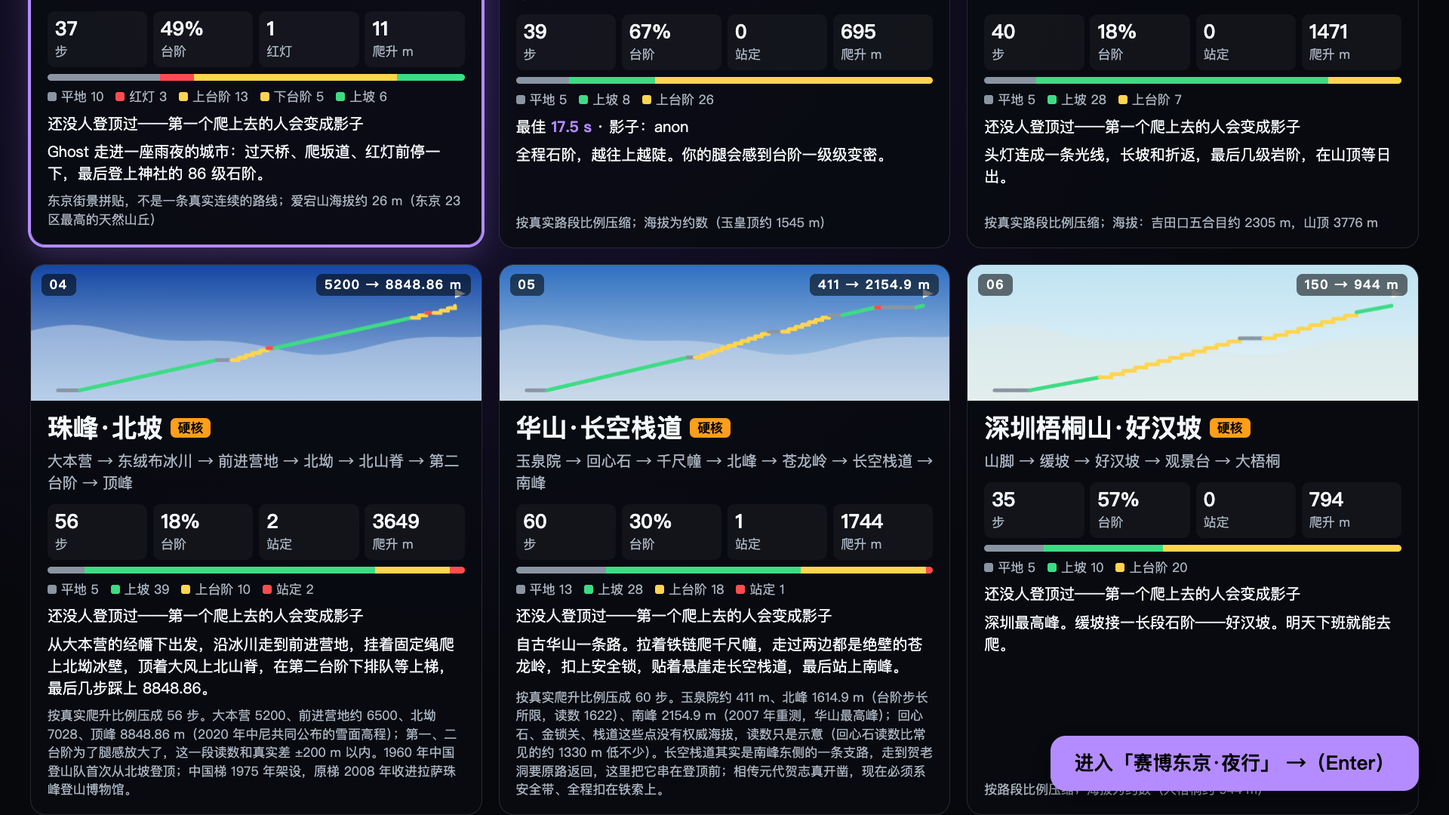
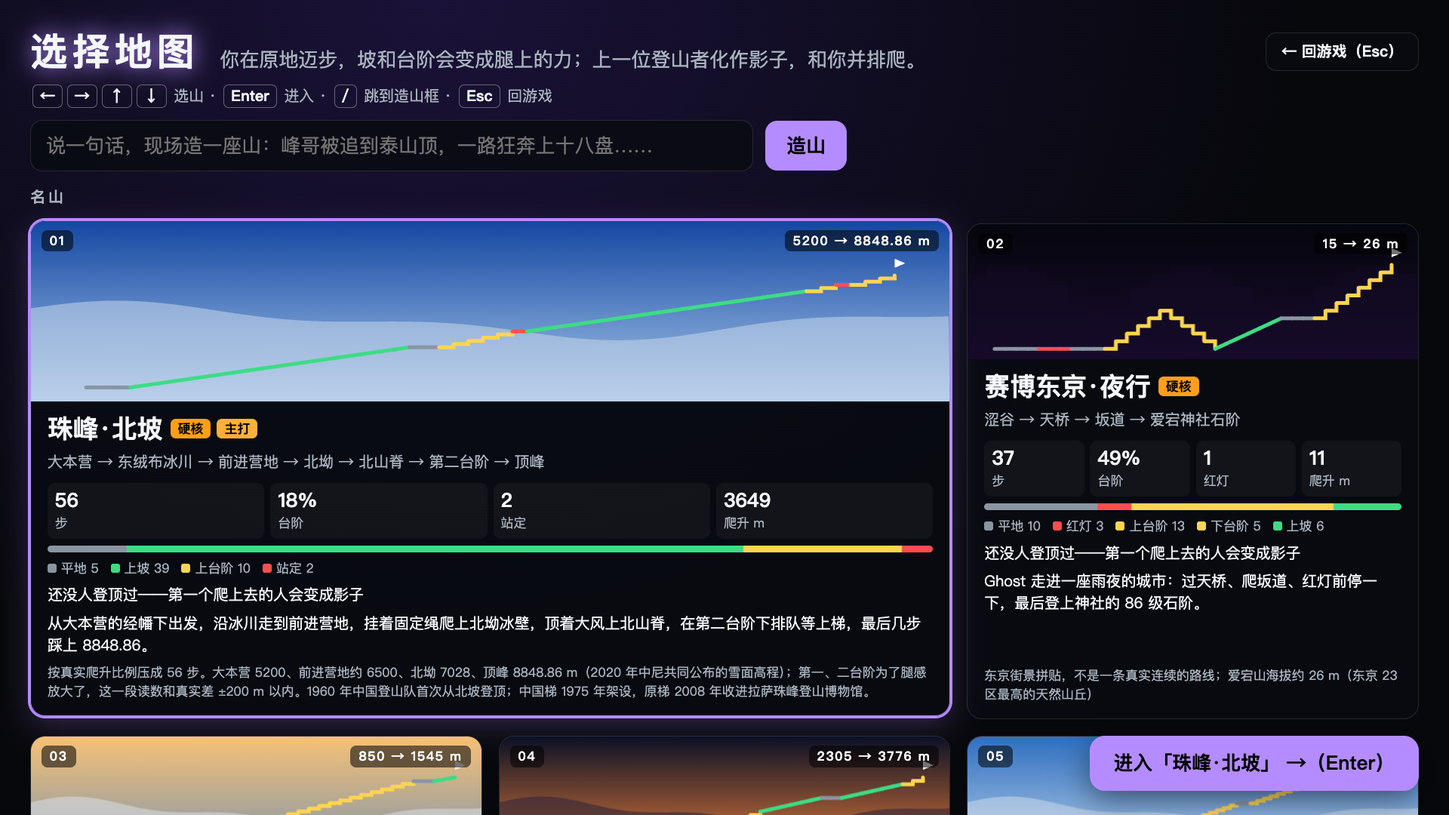
U 线：珠峰主打——选山页排第一、占两格、带「主打」；开始界面标主打；结算卡标题带山顶海拔（8848.86 m）

diff --git a/shellos/ui/static/worlds.html b/shellos/ui/static/worlds.html
@@ -38,6 +38,9 @@ h2{padding:1rem 2rem 0;margin:0;font-size:1rem;color:var(--dim);letter-spacing:.
 .stats span{font-size:.85rem;color:var(--dim)}
 .diff{font-size:.85rem;font-weight:900;padding:.05rem .5rem;border-radius:.35rem;margin-left:.5rem;vertical-align:.3rem;color:#000;background:var(--acc)}
 .diff.hard{background:#ff9f1a}
+.star{font-size:.85rem;font-weight:900;padding:.05rem .5rem;border-radius:.35rem;margin-left:.4rem;vertical-align:.3rem;color:#000;background:var(--who-fengge,#ffb03a)}
+.card.feat{grid-column:span 2}
+.card.feat .sky{height:12rem}
 .mix{display:flex;height:.45rem;border-radius:.25rem;overflow:hidden}
 .legend{display:flex;gap:.8rem;flex-wrap:wrap;font-size:.85rem;color:var(--dim)}
 .legend i{display:inline-block;width:.6rem;height:.6rem;border-radius:.15rem;margin-right:.3rem}
@@ -63,6 +66,7 @@ const fmt=s=>s==null?'—':s<60?`${s.toFixed(1)} s`:`${Math.floor(s/60)}:${(s%60
 // 最佳成绩：游戏页每次登顶记进 localStorage（fg_records，同一台大屏）；当前世界再用 /state 的 best / ghost_who 补上（ShellOS 内存里的，只读）
 let REC={};try{REC=JSON.parse(localStorage.getItem('fg_records')||'{}')||{}}catch(e){}
 let cards=[],chosen=null;
+const FEATURED='everest_north';   // 9/23 定：展位主打地图（docs/珠峰-架构.md），排第一张、大一号、带「主打」
 function drawSky(cv,w){
   const r=cv.getBoundingClientRect(),W=cv.width=r.width*devicePixelRatio,H=cv.height=r.height*devicePixelRatio,ctx=cv.getContext('2d');
   const t=w.theme,g=ctx.createLinearGradient(0,0,0,H);g.addColorStop(0,t.sky[0]);g.addColorStop(1,t.sky[1]);ctx.fillStyle=g;ctx.fillRect(0,0,W,H);
@@ -87,12 +91,12 @@ function stat(w){
   return {n,stairs:Math.round(sh*100),waits:waits.length,waitName:red?'红灯':'站定',diff:hard?'硬核':easy?'入门':'适中',hard};
 }
 function card(w,i){
-  const d=document.createElement('div');d.className='card'+(w.generated?' gen':'');d.tabIndex=-1;
+  const d=document.createElement('div');d.className='card'+(w.generated?' gen':'')+(w.id===FEATURED?' feat':'');d.tabIndex=-1;
   const S=stat(w),rec=REC[w.id]||{};
   const mix=Object.entries(w.mix).map(([k,v])=>`<div style="flex:${v};background:${SEG[k]||SEG.flat}"></div>`).join('');
   const leg=Object.entries(w.mix).map(([k,v])=>`<span><i style="background:${SEG[k]||SEG.flat}"></i>${k==='wait'?S.waitName:KN[k]||k} ${v}</span>`).join('');
   d.innerHTML=`<div class="sky"><canvas></canvas><div class="tag l">${w.training?'训练场':w.generated?(w.generated==='claude'?'AI 造':'现场造'):'0'+(i+1)}</div><div class="tag r">${esc(w.alt[0])} → ${esc(w.alt[1])} ${esc(w.unit)}</div></div>
-   <div class="body"><div class="name">${esc(w.name)}<span class="diff${S.hard?' hard':''}">${S.diff}</span></div><div class="sub">${esc(w.subtitle)}</div>
+   <div class="body"><div class="name">${esc(w.name)}<span class="diff${S.hard?' hard':''}">${S.diff}</span>${w.id===FEATURED?'<span class="star">主打</span>':''}</div><div class="sub">${esc(w.subtitle)}</div>
    <div class="stats"><div><b>${S.n}</b><span>步</span></div><div><b>${S.stairs}%</b><span>台阶</span></div><div><b>${S.waits}</b><span>${S.waitName}</span></div><div><b>${esc(Math.round(w.alt[1]-w.alt[0]))}</b><span>爬升 ${esc(w.unit)}</span></div></div>
    <div class="mix">${mix}</div><div class="legend">${leg}</div>
    <div class="rec" data-rec>${rec.best!=null?`最佳 <b>${fmt(rec.best)}</b>${rec.who?` · 影子：${esc(rec.who)}`:''}`:'还没人登顶过——第一个爬上去的人会变成影子'}</div>
@@ -111,6 +115,7 @@ async function load(pick_){
   if(cur&&cur.best!=null)REC[cur.preset]={...(REC[cur.preset]||{}),best:Math.min(cur.best,(REC[cur.preset]||{}).best??1e9),who:(REC[cur.preset]||{}).who||cur.ghost_who};
   let n=0;cards=[];
   document.getElementById('main').innerHTML='';document.getElementById('train').innerHTML='';
+  ws.sort((a,b)=>(b.id===FEATURED)-(a.id===FEATURED));
   ws.forEach(w=>{const c=card(w,w.training?0:n++);cards.push({el:c,w});(w.training?document.getElementById('train'):document.getElementById('main')).appendChild(c)});
   const want=pick_||(cur&&cur.preset),hit=cards.find(c=>c.w.id===want)||cards[0];if(hit)pick(hit.el,hit.w);
 }

diff --git a/shellos/ui/static/game/hud_menu.js b/shellos/ui/static/game/hud_menu.js
@@ -41,6 +41,7 @@ const CSS = `
 #umenu .tag{font-size:1.7rem;font-weight:700;margin:.5rem 0 1.6rem;color:#e6edf5}
 #umenu .world{font-size:1.3rem;color:var(--dim);margin-bottom:1.2rem}
 #umenu .world b{color:#fff}
+#umenu .world .feat{font-size:.85rem;font-weight:900;padding:.05rem .45rem;border-radius:.35rem;background:var(--who-fengge);color:#000;vertical-align:.1rem}
 #umenu .go{margin-top:1.4rem;font-size:1.3rem;font-weight:800}
 #umenu .go kbd{display:inline-block;font:inherit;padding:0 .5rem;border-radius:.35rem;background:var(--acc);color:#000;margin:0 .2rem}
 @keyframes uBreath{50%{opacity:.55}}
@@ -100,7 +101,7 @@ export function makeMenu(world, { preview, cut, poke }) {
     }).join('');
     if (s === 'title') {
       el.innerHTML = `<div class="dim"></div><div class="tt"><div class="logo${FG ? '' : ' alt'}">${TITLE}</div><div class="tag">穿上外骨骼 · 原地踏步 · 腿上爬山</div>
-        <div class="world">当前地图：<b>${esc(world.name)}</b>${world.subtitle ? ` · ${esc(world.subtitle)}` : ''}</div>${list}
+        <div class="world">当前地图：<b>${esc(world.name)}</b>${world.id === 'everest_north' ? ' <span class="feat">主打</span>' : ''}${world.subtitle ? ` · ${esc(world.subtitle)}` : ''}</div>${list}
         <div class="go">按 <kbd>Enter</kbd> 开始 · 或直接按住手柄 <kbd>R2</kbd></div></div>
         ${FG ? `<div class="pt"><div class="face"></div><div class="nm">峰哥</div><div class="say panel">「${LINES[sayI % LINES.length]}」</div></div>` : ''}
         <div class="steps">${[['按住 R2', '腿上才有力，松手立刻没力'], ['原地踏步', '屏幕里在爬山，坡和台阶打在腿上'], ['说一句「太陡了」', 'AI 蜂群改手感'], ['说一句话', 'AI 现场造一座山']]

diff --git a/shellos/ui/static/game/hud_flow.js b/shellos/ui/static/game/hud_flow.js
@@ -42,6 +42,7 @@ body.u-ready #uready{display:block}
 #summit .sbig b{font-size:3.6rem;font-weight:900;color:#fff;margin:0 .4rem;font-variant-numeric:tabular-nums;vertical-align:-.3rem}
 #summit .sbig em{font-style:normal;font-size:1.3rem;font-weight:900;color:#000;background:var(--acc);border-radius:.4rem;padding:.05rem .5rem}
 #summit .sgh{font-size:1.6rem;font-weight:800;margin-top:.3rem}
+#summit .salt{font-size:1.7rem;font-weight:900;margin-left:.6rem;white-space:nowrap;letter-spacing:0;font-variant-numeric:tabular-nums}
 #summit .sck{font-size:1.35rem;margin-top:.35rem;color:var(--acc);font-weight:700}
 #summit .sfg{font-size:1.3rem;font-weight:700;margin-top:.45rem;padding:.35rem .7rem;border-radius:.6rem;border-left:.3rem solid var(--who-fengge);background:rgba(255,176,58,.08)}
 #summit .sfg:empty{display:none}
@@ -137,6 +138,7 @@ export function makeFlow(world, preview) {
       const lap = T.last_lap;
       document.getElementById('sTime').textContent = fmt(lap);
       document.getElementById('sSteps').textContent = ` · ${T.total} 步`;
+      if (world.alt && world.alt[1] !== world.alt[0]) document.getElementById('sName').insertAdjacentHTML('beforeend', `<small class="salt">${esc(world.alt[1])} ${esc(world.unit || 'm')}</small>`);   // 珠峰 = 8848.86 m
       const f = (lastS && lastS.fengge) || {};
       fgSig0 = `${f.t}|${f.event}|${f.text}`; fgWant = true; document.getElementById('sFg').innerHTML = '';
       if (lap != null && !preview) try {         // 攒给选山页的最佳成绩（只存在这台大屏的浏览器里）

diff --git a/docs/指挥板.md b/docs/指挥板.md
@@ -21,7 +21,7 @@
 | **M2 地图（对话框）** | `static/game/themes/**` 的几何和道具、`path.js`、`themes/kit.js`、`game.html` 布局；`hud.js` 只动 AVOID（灯光/雾/后期/材质发光归 L，人物/动作/NPC 归 P/A2/J，`engine.js`/`camera.js` 不动） | 接手第 3 轮：先审 → 修坏处 → 每个主题 3 个大屏改动 → `?fx=low` 降级 | **第 2 批已提交（分支 claude/focused-shtern-45d528，已 merge main 8215a79，待合并）**。**台阶反馈**（`kit.stepFx`，5 个主题都接了）：化身跨过一级台阶的边时，脚下那级踏面亮一下 + 扬一小团尘；**下台阶**（落阶冲击）更强：踏面亮 0.75、尘 20 粒、再加一圈往外扩的冲击环；上台阶只亮 0.3、尘 5 粒。尘按主题配色：东京 = 溅起的水花、富士 = 红褐火山砂、训练场 = 青色数据粒子、泰山 / 梧桐 = 浅灰土。**每个主题再 3 个大屏改动**：东京 = 起点身后街口整面楼的滚动广告大屏（「峰哥亡命天涯 / 渋谷 / SHIBUYA スクランブル交差点」，正面镜头回看时整块是背景）、神社石阶两侧奉納提灯（红白纸灯笼一路亮到拝殿）、路口橙色カーブミラー + 倒三角「止まれ」+ 一排红色共享单车；泰山 = 紧十八两侧崖上摩崖大字「天门长啸」「万里清风」（窄槽仰拍时夹着南天门）、慢十八左崖「岱宗」大字（字面朝山上，正面镜头回看时在身后）、南天门上空盘旋的鹰；富士 = 五合目小御嶽神社朱红鸟居 + 石灯笼 + 一排红白蓝幟（起点身后，正面镜头回看时月亮正好框在鸟居里）、月亮 + 前半夜每 2.5–5 s 一颗流星（划在镜头朝向 ±35° 以内）、七 / 八合目山小屋檐下一串红白提灯；梧桐 = 缓坡上一条会流的山涧（左坡流下 → 路下穿过 → 右坡跌水）、路边两群蝴蝶（橙 / 蓝）、观景台右前方山谷里盘旋的白鹭；训练场 = 每个路段前 1.3 步地上一行路段色大字（「上台阶 ▲」）、地上 5 个往下一段路跑的引导箭头（路段色）、进新路段时脚下一圈路段色光环扩到半径 4。**试过放弃的**：泰山中天门索道（跟拍镜头朝前看，右侧山谷在视野外，吊厢基本拍不到，上站只剩一个白盒子）、东京塔（镜头朝下看，远处高塔不是出画就是埋进神社后面的高楼）。**截图** `docs/提交/截图/map_v5_*.png`（16 张，1920×1080 经 lighting 渲染缩到 1280×720，只有 3D 画面）。整场景三角形：东京 91k、泰山 248k、富士 91k、梧桐 376k、训练场约 30k（lighting 开着时 dom 报的 tris 含阴影那一遍，比这个大）。**没做到**：FPS 仍没法在这台机器测（负载高、面板隐藏）；落阶反馈只在预览里按 s 插值验过，没接真机 / 模拟走；E 的珠峰没接 stepFx（留言给 E 了） |
 | **E 珠峰地图**（分支 claude/exciting-ptolemy-bc4711） | `shellos/worlds/everest_north.json`（新）、`static/game/themes/snow_summit.js` + `themes/snow_summit/`（新：sky / snow / props / hypoxia）、`docs/提交/截图/everest_*.png`；`worlds/__init__.py` 只改 ORDER 一行（排富士后面）；**engine.js / path.js / kit.js / hud.js 都没改** | 珠峰北坡新世界 + 高海拔雪山主题 `snow_summit` | ✅ **做完，未 push**。**路线** 56 步（按爬升比例压，不按路程）：珠峰大本营 3 平 → 东绒布冰川 19 上坡（Z 字）→ 前进营地 2 平 → 北坳冰壁 5 上台阶 → **北坳营地·吸氧**（wait）→ 北山脊·大风口 19 上坡 → 第一台阶 2 → **第二台阶·排队上梯**（wait）→ 第二台阶·中国梯 3 上台阶 → 顶峰雪坡 1 → 珠穆朗玛峰。HUD 海拔（terrain.py 同一公式算过）：5200 / 6508 / 7024 / 8333 / 8539 / 最后一步 8849；第一、二台阶为了腿感放大了：第一台阶读数比真实低 60–230 m，梯子段 8539–8746（真实约 8580–8680），note 里写的是「±200 m 以内」。**按实地校对**（查证 workflow：新华社 / 澎湃 / 中国日报 / 维基 / Alan Arnette 交叉核对，只写高可信的）：① 去前进营地走的是**东绒布冰川**，任务单写的「中绒布」改了；② **排队挪到第二台阶梯子下面**：北坡公认的堵点就是一次只能上一个人的中国梯，2019 那张著名排队照片是南坡拍的，所以没放在顶峰前；③ 中国梯 1975 年架设，2007 年旁边另架新梯、2008 年原梯拆下收进拉萨珠峰登山博物馆，note 写明；④ 北坳起可以开始吸氧（新华社原文），7500 m 一带叫大风口；⑤ 8848.86 = 2020 年中尼共同公布的雪面高程。**主题**：大本营玛尼堆 + 放射状经幡（旗面在顶点着色器里飘，风雪越大飘得越凶）、黄帐篷、「珠峰大本营 5200 m」石、远处珠峰北壁 + 旗云；碛石路 + 右侧冰塔林；北坳冰壁冰塔、红蓝固定绳 + 雪锥（路右沿外，冰壁起一直拉到顶峰前）、雪道贴图上两排冰爪印（化身线 + 影子线，每步一个）；北坳营地帐篷 + 氧气瓶；第一 / 第二台阶两侧积雪岩块（第一台阶偏黄 = 黄带）；**铝梯**：两根边梁 + 横档压在台阶前沿、顶端翘出，化身踩在横档上；**排队** 5 人（`fx=low` 3 人）红灯时站在梯子上和雪坡上，放行后往上走、翻过顶峰就不见，挡在镜头和化身之间（正面镜头）的自动藏；**顶峰红色测量觇标**（三脚架 + 立杆 + 觇牌 + 天线盘）+ 经幡；登顶镜头从化身左前方起，看得见峰哥的脸，影子和觇标错开在旁边。**天气**按进度：低处晴（藏蓝天、白太阳）→ 过前进营地起风雪（雾收到 5–36、雪粒横飞、远山褪白）→ 排队处转晴 → 登顶 1.2 s 过渡到脚下云海 + 头顶蓝黑天，三层喜马拉雅剪影随爬升沉到地平线下。**缺氧**：按海拔（5300 m 起）画面四周变暗 + 模糊（DOM 两层：径向暗角 + backdrop-filter 模糊带遮罩，插在 canvas 后面、HUD 下面，和 WebGL 后期不相干），随呼吸（14→21 次/分）只改透明度，画面不晃不缩放。**走到才露面**：整条路只有 28 个单位长、4.4 高，大本营一眼能看到顶，所以岩石台阶 / 铝梯 / 排队 / 觇标离 6–9 个单位才溶出来，过了北坳大本营 / 前进营地的帐篷经幡溶掉（站在第二台阶回头不会看见 20 个单位外的大本营帐篷）。红灯面板写这一段的名字（● 北坳营地·吸氧 / ● 第二台阶·排队上梯）。地标按路段类型找、不写死步号，「一句话造山」生成的 snow_summit 世界也能用。藏起来的东西不用 `visible=false`，缩成一个点（还在绘制列表里）：ANGLE / Metal 第一次绘制才建管线，以前雪粒、云海、岩块爬到半路第一次露面各卡 170–220 ms，改后第一次露面 5–8 ms（本机实测）。**对抗式 review**（workflow：正确性 / 接口规矩 / 性能 / 史实 4 个维度，每条再派 2 个复核）找出 8 条，全修了：缺氧呼吸相位拿绝对时间算（开久了越喘越快）、雪粒同样的问题（风速一变整片瞬移）、排队的人会被走得快的化身穿过去 / 新一圈往回滑、顶峰一条经幡绳穿过化身腰部、登顶开场影子被化身挡住、固定绳在路面里（镜头那侧）、上面说的着色器卡顿、note 里海拔误差写反了 + 北坳写成≈7020。**验收**：截图 `docs/提交/截图/everest_{bc,col,ladder,queue,summit}.png`（跟拍）+ `everest_*_front.png`（`&cam=front`），URL `/game?preview=everest_north&pos=1|29|53|51|55&summit=1`（带 `&ghost=`）；无头 Chrome（Metal）按真实时间等 `data-ready` 再截，1920×1080 缩到 1280×720，errlog 全空。`--sim` 走一圈：30.5 s 登顶（laps 0→1），北坳 / 排队两处停下后 2.2 s、2.0 s 放行（站定 1.5 s 规则），实时页面（非预览）也跑过一圈，errlog 空。pytest **108 passed**（`test_fault::test_stress_stack_end_to_end` 要 `data/recordings/synthetic-walk.csv`，那是 gitignore 的，worktree 里没有；从主工作区临时拷进来跑过再删了）。**性能**：**没在 M2 上测**。本机（2017 MBP，Radeon Pro 555）1080p 无头 Metal：珠峰 28–36 fps、泰山同法 27 fps；强制同步渲染测法：空场景 39 ms、珠峰 43 ms、泰山 90 ms（主题本身约 +4 ms）。整场景 ~124–144k 三角形、44–67 次绘制；`?fx=low`：~98–106k 三角形、雪粒 700（常规 2200）、排队 3 人、不要模糊层；主题 65 KB。`gen.styles()` 已经能拿到 snow_summit；两条怪路线（无红灯含下台阶 / 开头红灯 + 结尾排队）预览 errlog 空。**不理想**：铝梯只能顺着台阶斜度铺（引擎每级只升 0.12），「陡」靠两侧岩块 + 低机位仰拍撑；HUD 小标签和「N 步后：」还写「红灯」、登顶那 6 s HUD 海拔显示新一圈的 5200（hud.js，见留言）；和 L 线 lighting.js 合并后没一起测过（见留言） |
 | **E2 华山地图**（同分支 claude/exciting-ptolemy-bc4711） | `shellos/worlds/huashan_plank.json`（新）、`static/game/themes/cliff_path.js` + `themes/cliff_path/`（新：sky / rock / props）、`docs/提交/截图/huashan_*.png`；`worlds/__init__.py` 只加 ORDER 一项（珠峰后面）；顺手改了自己的 `snow_summit/hypoxia.js`（见下）；**engine / path / kit / hud / lighting 都没改** | 华山·长空栈道新世界 + 花岗岩绝壁主题 `cliff_path`，正面镜头拍出悬崖纵深 | ✅ **做完，未 push**。**路线** 60 步（按爬升比例压）：玉泉院 3 平 → 青柯坪山路 21 上坡（Z 字）→ 回心石 1 → 千尺幢 7 上台阶 → 百尺峡 2 → 老君犁沟 2 → 北峰 2 平 → 苍龙岭 7 上台阶 → 金锁关 2 平 → 中峰 5 上坡 → **南天门·扣安全锁**（wait）→ 长空栈道 5 平 → 南峰 2 → 南峰·华山极顶。HUD 海拔（terrain.py 同一公式）：411 / 回心石 1089 / 北峰 1622 / 金锁关 1961 / 栈道 2123 / 最后一步 2155。**按实地校对**（查证 workflow）：北峰 1614.9（HUD 读 1622，步长只能到这）、南峰 2154.9（2007 年重测，旧值 2160）是硬数字；玉泉院约 411、回心石约 1330 只有 GPS 轨迹类来源，金锁关、栈道海拔是推算，note 里写了「读数只是示意」。长空栈道其实是南峰东侧、从南天门外出去的一条**支路**，走到贺老洞要原路返回——游戏把它串在登顶前，note 写明；尽头刻「全真崖」（查不到有「长空栈道」四字石刻，所以没刻）；同心锁集中在**金锁关**，所以加了金锁关一段、锁挂在那里。**主题**：玉泉院山门（匾额双面字）、两侧花岗岩峪壁（竖向节理 + 水痕）、回心石；千尺幢 / 百尺峡 / 老君犁沟 = 两侧直上直下的窄缝，缝里低机位仰拍、「太华咽喉」「百尺峡」刻字，百尺峡缝口卡一块巨石；北峰；苍龙岭 = 刀背山脊（路沿一过就是直落的崖面，两侧铁链挂同心锁和红布条，上端「韩退之投书处」）；金锁关满链的锁；长空栈道 = 路面在这一段换成横铺木板、板外和板缝挖空（能从缝里往下看见云），右边一面前倾的高崖、崖上铁桩托板 + 保险铁链 + 挂着的安全带，左边连路底下全空；南峰「华山极顶」刻石；华山松、秦岭远山、深谷里的云海。**镜头**：苍龙岭、栈道上跟拍镜头挪到悬崖那侧、悬在空处；**正面镜头（V / `?cam=front`）**在栈道上和木板齐平、悬到崖外回看，峰哥全身、身后崖面上下都在；苍龙岭上站在岭上往回看，岭脊一路往下。离镜头 1.6 以内的崖面片元溶掉（镜头跟在后面 8 步，拐进峡缝不会整屏是墙）。峡缝高崖走过就溶、山上的东西走近才露、栈道高崖过了就溶（登顶回头不会看见比顶峰还高的墙）。藏起来的东西缩成点（不用 visible=false，管线第一帧建好，不卡）。**验收**：截图 `docs/提交/截图/huashan_{gate,slot,ridge,plank,summit}.png` + `_front`（`/game?npc=0&preview=huashan_plank&pos=1|28|41|55|59&summit=1`，带 ghost；`npc=0` 是为了不让捷风挡镜头），无头 Chrome（Metal）按真实时间等 data-ready 再截，errlog 空。`--sim` 走一圈 29.1 s 登顶，扣安全锁停下后 1.9 s 放行。合了最新 main 后 pytest **125 passed**（stress 那条同上次，临时拷 recordings 跑的）。**按美术范式**：台阶每级前缘 `SEG.stairs_up` 黄亮条（0.06）、影子 `WHO.ghost.bright` / 0.55 / `#063f3a`、接了 M2 的 `kit.stepFx`；`#wait` 大字交给 U（U 已经按段名写「● 南天门·扣安全锁」），主题不再改。两条怪路线（无红灯含下台阶 / 开头红灯 + 结尾红灯）预览 errlog 空。**复核**（多代理 review + 逐条复现）后改了：show() 显示时恢复原缩放（珠峰主题同样修了）；相邻地标的镜头锚点交错导致上下颠；栈道在路线末尾时崖不出现；峡缝铁链分组；太早的红灯不当栈道口；珠峰缺氧 fps 宽限期被加载吃掉；出峡缝那几步镜头还落在缝里、惊心石和峡壁挡住化身 → 惊心石化身一钻过就溶、峡壁一出缝就溶；华山松按树冠大小留距离（生成世界里 2/13 条路线会挡住化身）；溶到一半的东西不投影；华山专有刻字（太华咽喉 / 韩退之投书处 / 全真崖 / 华山极顶）只在世界名带「华山」时刻，其他 cliff_path 世界刻自己的路段名；登顶卡回到默认居中（放左边会盖住「华山极顶」石）。**性能**：没在 M2 上测。本机（2017 Radeon Pro 555）1080p 无头、光影线后期开着：华山 13.2 fps、泰山 11.7、珠峰 10.1；`?fx=low` 华山 17.6、`?fx=off` 华山 21.7 / 泰山 21.0——主题本身和泰山一个量级。珠峰慢在缺氧的 CSS 模糊层（叠在后期上，藏掉它 10.1 → 14.5），所以改了 `snow_summit/hypoxia.js`：模糊半径 5 → 3 px、约 6700 m 以下不开、页面连续 3 s 低于 40 fps 自动拿掉模糊层（暗角和呼吸照旧）。主题 56 KB。**不理想**：路线只有 28 个单位长，千尺幢的「70°」只能靠窄缝 + 仰拍撑（引擎每级只升 0.12）；登顶那 6 s HUD 海拔的老问题 U 线在改 |
-| **U 界面**（分支 claude/sad-bhabha-867c9e） | `static/game/hud.js`、`static/game/hud_*.js`（新）、`game.html` 里 HUD 的 DOM / CSS、`static/index.html`；`engine.js` 只加 1 行 `hud.attach(av)`、`makeHud` 多传一个 `!!PREVIEW` | 大屏：① 腿上的力看得见 ② AI 决策卡 + 造山过场 ③ 待机 / 准备 / 游戏中 / 登顶 状态流 + 二维码 ④ 右上安全灯 ⑤ 字号 / 主色统一；操作台精简 | ✅ **做完，未 push**（第 1 版 adac318 已发总指挥先合，第 2 版在后面）。① `hud_force.js`：左下「腿上的力」：左右腿各一条 6 s 滚动波形（`safety.sent`，每段颜色 = 出力那一刻的路段：上坡绿 / 台阶黄 / 下坡蓝 / 红灯红，平地 = 主题主色），±软限每 1 Nm 一条刻度，右边 52 px 大字 = 近 1.5 s 峰值，右上角显示当前强度；化身大腿加色光壳（绑定姿态按髋→膝摆好再 `bone.attach`，没改 avatar.js），\|sent\| > 0.05 按路段色亮、~0.2 s 暗掉。原来的小力矩条删了。② `hud_ai.js`：`swarm` 出新的一轮 → 右下弹卡「评委说「…」」，一行一个角色隔 0.65 s 亮出来，停 4.5 s；裁剪橙底抖一下、否决红底、生效绿字；参数字典翻成「强度 +0.5」。自动检索「命中经验」（不走蜂群时间线）也上这张卡（记忆员 · 生效）。看到地形导演「在造…」→ 全屏「AI 正在造山…」+ 评委原话 + 已等秒数；引擎切世界重载后（sessionStorage 接力，或 swarm 里 25 s 内的「已切到」）剖面逐段画出来 + 安全员那几行，~5 s 后淡出进新山。③ `hud_flow.js`：body 挂 `u-idle / u-ready / u-play / u-summit`。待机 = 45 s 没人动（没走、没按 R2、没换人、蜂群没新消息；`?idle=秒` 可改）→ 大标题 + 玩法四步轮播 + 右下二维码，镜头正面 / 侧面 / 跟拍每 7 s 轮换（写 `window.__camMode`，退出待机还原），峰哥每 25 s 说一句（调 H 线的 `__fenggeHud.say`，不出声）。准备 = safety 不是 ACTIVE → 大字「按住 R2 开始」（手柄连着时下面有 R2 按压条）。游戏中 = 只留峰哥、路况、力、进度（+ 安全灯 / AI 卡 / 影子标签），世界名面板和右下统计面板、右侧经验卡栏都拿掉了。登顶 = 成绩卡：用时大字 + 新纪录、和影子比（影子先到 → 慢几秒；没到 → 甩开几步；没影子 → 第一个爬上来的人）、「你的手感已存为经验卡 #n「…」」、二维码；**至少停 8 s**（引擎走 3 步就收登顶画面，原来接着走的人根本看不到卡），之后接着走 3 步 / 红灯 / 25 s 收。**急停压过一切**：DISARMED 时收成绩卡，大字红「急停中」。`hud_qr.js`：自己写的二维码编码（字节模式、纠错 M、版本 1–10、8 种掩码按罚分挑），Chrome BarcodeDetector 解 6 条（2–200 字节，版本 1 / 3 / 5 / 8 / 10，含中文）全对。`?ui=idle|ready|play|summit` 固定状态截图用；离线预览默认 play（登顶预览 = summit）。④ 右上安全灯（z 最高，任何状态都在）：灰「R2 松开」/ 绿「出力中」（低置信时小字「没认准步子，力归零」）/ 红闪「急停」。⑤ 1080p 下路段名、第 n / N 步、n 步后、红灯站定秒数、海拔、力矩值、登顶用时都 ≥ 48 px；面板统一深色半透明 + 主题主色 `theme.accent`。**操作台**（index.html）：急停挪到安全面板最上面，130 px 高、48 px 字、最红；重新上膛、按住助力、模拟走路、发出力矩、软限 / 死人开关都在（**安全功能一个没删，按钮行为没改**）；第一屏 = 安全 + 记忆（换人 / 评委说 / 经验卡删 / 恢复）+ 蜂群（造山框 + 时间线加高）+ 地形；顶栏加三个灯：大脑（在线 / 离线兜底 / 没 key）、峰哥语音（`fengge.source`：大模型现写 / 兜底语录 / 还没开口）、手柄（R2 %）；控制律参数和事件流在第二屏；髋角曲线 / 相位 / 腿部 3D / 步态签名 / 手柄键位折进「调试」，**点开才画**，腿部 3D 第一次点开才建（它自己 60 fps 渲染，以前一直在后台跑，和游戏抢 CPU）。**验收**（自己起的 `--sim --force-deadman --http 8877`，大脑 / TTS 指到空端口走规则兜底；没碰展位 ShellOS）：`docs/提交/截图/ui_idle.png`、`ui_ready.png`、`ui_play_force.png`（泰山台阶，黄色波形 + 大腿黄光）、`ui_ai_card.png`（「没感觉，重一点」→ 安全员裁剪橙底 → 生效）、`ui_forge_wait.png`、`ui_forge_reveal.png`、`ui_summit.png`、`ui_estop.png`、`ui_dashboard.png`（1440×900 第一屏）、`ui_dashboard_debug.png`。**FPS**：无头 Chrome（Metal）、泰山、模拟器 100 步/分在走，改前（889d8ae）/ 改后（7c50c71）两棵树各起一个模拟器，各采 10 s。第一次在 8877 / 8878 测（16:18 后 R 线的请求误打到过 8877，所以作废重测）；17:00 在确认空着的 8897 / 8898 重测 3 轮，测完核对 walk=true、cadence 100、force null：改前 31.4 / 32.4 / 32.9，改后 32.8 / 33.2 / 33.8 fps，没有下降；力波形 rAF 每帧 0.37 ms，造山过场循环平时 < 0.01 ms。截图里没有「（强制）」路段标记，没受 R 线影响。合 main（8215a79，含光影 / 珠峰 / 跑酷）后在珠峰北坡看过：无报错。帧率调试行默认藏，`/game?debug=1` 才显示。**第 3 轮（E 线反馈 + 闪屏自查）**：① 站定段按世界说人话：路段名里带「红灯」（东京）才叫红灯；珠峰「北坳营地·吸氧」「第二台阶·排队上梯」的中间大字直接写地名，路段标签 / 力面板标签 / 图例写「站定」，「n 步后：第二台阶·排队上梯」；造山剖面下那行同理（`hud_force.js` 的 `kindName`）。snow_summit 主题里改 `#wait .big` 的那段现在和 HUD 写的一样，可以删。② 登顶那 6 s 海拔 / 步数写山顶（珠峰 8848.86 m、第 56 / 56 步），不再显示起点 5200。③ 闪屏自查（15 s 站着 + 15 s 走，数 DOM 变化）：状态流只在登顶时切，没有来回跳；大腿光约 3 次 / s，就是每一步的出力脉冲，设计如此；**找到并修了**：安全灯和路段名以前每 100 ms 整块重写（肉眼不闪但每次重排），现在值变了才写；真机上扳机轻搭在门槛上时 ACTIVE / ARMED 会 10 Hz 来回跳，以前「按住 R2 开始」大字和面板会跟着闪——离开「游戏中」加了 1.2 s 迟滞（进游戏中、急停不等），安全灯颜色照实时，小字「没认准步子」至少停 1.5 s。`tests/test_hud_flow.py`（node 跑 `pickMode`：抖 6 s 只切 1 次，把迟滞改成 0 会挂）。外骨骼没连时灯写「外骨骼没连上」。整屏一直闪不像是 HUD 造成的（HUD 没有整屏元素会高频开关），得等 L 线查光影。**第 4 轮 · 游戏 UI 第一批（开始界面 + 设置 + 暂停）**：`hud_menu.js`（新）+ `settings.js`（新，普通脚本，game.html 里在所有模块前加载）。① **开始界面**：标签页第一次开 /game 出（切世界的重载不出；`?title=0/1`），待机时也回到它当吸引画面；「峰哥亡命天涯」大标题 + 峰哥大头像（琥珀框，旁边轮换说几句）+ 当前地图 + 菜单（开始爬山 / 选择地图 / 设置 / 玩法说明 / 制作团队）+ 四步玩法条 + 微信群码（S 线的 `wx_qr.jpg`，9/30 前有效，**原来那个 GitHub 链接扫了 404 的问题一起解决了**；`?qr=网址` 仍可换成现场编码）；背景是当前世界沿路慢慢航拍（借引擎 `__camHold`，离开前先交还，导游在「准备」里接手不打架）。按 Enter / 按住 R2（ACTIVE 那一下）/ 开始走 → 进游戏。备用版 `?fengge=0`：标题换成「原地迈步，腿上爬山」、不出头像和峰哥署名。② **设置**（存 localStorage；地址栏写了的以地址栏为准，那一行显示「地址栏固定」）：峰哥语音音量、捷风 / 音效音量（游戏里现在没有别的音效，只有捷风的声音）、字幕、镜头（即时生效）、画质 高 / 低 / 关、捷风出现、捷风说话（缺省不说）、峰哥导游、峰哥解说 多 / 少（少 = 只留登顶 / 红灯 / 造山 / 改手感）。做法：各线本来就读地址栏开关，settings.js 在模块加载前把和缺省不同的设置补进地址栏（记在 `_si=`，下次先删再补），画质 / 捷风 / 导游改了返回时自动重载；音量 = 包一层 `HTMLMediaElement.play` 按网址分两路；解说「少」= CSS 藏那几种事件的气泡 + 跳过它们的声音。**没改任何别人的文件**。③ **暂停**（Esc）：继续 / 重新开始（回山脚）/ 换地图 / 设置 / 退出到标题；只盖住画面，暂停期间一个请求都不发；「重新开始」= 替用户按一下 R，走 input.js 原来那条回山脚的路。菜单开着时按键在捕获阶段全吃掉（空格 / R / 1 2 3 / V 都不漏给 input.js，实测 sim 的 walk / cadence 不变）。**手柄不拿来点菜单**：ShellOS 把手柄每个键都占了（↑↓ 调参数、× 急停、○ 上膛、Options 复位），网页再用会连带改参数；手柄只有「按住 R2 = 开始」。④ 玩法说明（键盘 / 手柄对照）、制作团队（球球、anni、峰哥授权、素材来源；**待球球确认名单**）。⑤ 顺手按 ART 美术范式收了 U 线的 P0 / P1：`--acc` 全局霓虹紫（`applyCssVars()`，不再跟主题 accent）、路段色一律 `style.js` 的 `SEG`（下台阶黄、红灯 #ff4d4f、平地灰）、红灯面板边框 / 大字用 `--seg-wait`、AI 卡角色名白 + 结论标签用 UI 状态色、「新纪录」徽章紫、`.panel` 去掉 backdrop-filter、登顶卡在左下时最宽 44 vw。急停压过开始界面（红字「急停中」在上层）。`tests/test_hud_flow.py` 加了开始界面两条。**验收**：`docs/提交/截图/ui_menu_title.png`、`ui_menu_title_alt.png`（备用版）、`ui_menu_settings.png`、`ui_menu_pause.png`、`ui_menu_help.png`、`ui_menu_credits.png`、`ui_menu_estop_over_title.png`（我的模拟器在负载下被看门狗断了，正好拍到急停压过开始界面）；pytest 125 过 1 挂（test_fault 同前）。**第 4 轮 · 第二批**：⑥ **选择地图**（保留独立页 `/worlds`，因为切世界要 POST `/terrain`，游戏页不发控制请求；页面原有的造山框、「进入」按钮的请求一个没改）：和游戏页同一套样式（rem 字号层级、深色面板、霓虹紫、路段色从 `style.js` 来）；卡片加难度徽章（入门 / 适中 / 硬核，按台阶占比 + 步数 + 站定段）、步数 / 台阶% / 红灯或站定数 / 爬升、最佳成绩 + 影子是谁；键盘 ←→↑↓ 按屏幕位置选卡、Enter 进入、/ 跳到造山框、Esc 回游戏；进页默认选中当前世界。**最佳成绩的来源**：ShellOS 只在内存里存每座山的影子 / 最佳，`/state` 只给当前世界，所以游戏页每次登顶记一份到 localStorage（`fg_records`，同一台大屏），选山页再用 `/state` 补当前世界的——ShellOS 重启后这边的记录还在，两边可能对不上；要严格一致得在 `/worlds.json` 里带上每座山的 best（server.py / worlds 是总指挥的）。⑦ **结算画面**：登顶卡加步数、峰哥这次登顶的评语（`fengge` 事件 summit 的那一句，来了就填进卡里）、「Enter 再来一次」（= 收起卡片：ShellOS 登顶后本来就从山脚开下一圈，不发请求）和「M 换地图」。**验收**：`ui_menu_maps.png`、`ui_menu_results.png`（泰山登顶 17.5 s 新纪录 · 39 步 · 甩开影子 · 峰哥评语）。pytest 125 过 1 挂（同前）。pytest 111 过 1 挂（`test_fault` 缺 gitignore 的 synthetic-walk.csv，同前）。**没做到 / 照实写**：① 二维码现在指向 `github.com/QiuQiuNB666/aima/blob/main/docs/提交/onepager.html`，**仓库公网 404（私有），手机扫了打不开**，要有公开网址（仓库转公开 / Pages / 别处托管）后用 `/game?qr=网址` 或改 `hud_flow.js` 的 `QR_URL`；② 「演示循环」只做了镜头轮换 + 标题轮播 + 峰哥气泡，化身原地待机动作，没有自动爬山回放（要改引擎）；③ 语音灯只能看 `fengge.source`（/state 里没有 TTS 状态，声音实际在游戏屏 voice.js 播）；④ 真机没试（只在模拟器上看过），R2 按压条要手柄连上才出现 |
+| **U 界面**（分支 claude/sad-bhabha-867c9e） | `static/game/hud.js`、`static/game/hud_*.js`（新）、`game.html` 里 HUD 的 DOM / CSS、`static/index.html`；`engine.js` 只加 1 行 `hud.attach(av)`、`makeHud` 多传一个 `!!PREVIEW` | 大屏：① 腿上的力看得见 ② AI 决策卡 + 造山过场 ③ 待机 / 准备 / 游戏中 / 登顶 状态流 + 二维码 ④ 右上安全灯 ⑤ 字号 / 主色统一；操作台精简 | ✅ **做完，未 push**（第 1 版 adac318 已发总指挥先合，第 2 版在后面）。① `hud_force.js`：左下「腿上的力」：左右腿各一条 6 s 滚动波形（`safety.sent`，每段颜色 = 出力那一刻的路段：上坡绿 / 台阶黄 / 下坡蓝 / 红灯红，平地 = 主题主色），±软限每 1 Nm 一条刻度，右边 52 px 大字 = 近 1.5 s 峰值，右上角显示当前强度；化身大腿加色光壳（绑定姿态按髋→膝摆好再 `bone.attach`，没改 avatar.js），\|sent\| > 0.05 按路段色亮、~0.2 s 暗掉。原来的小力矩条删了。② `hud_ai.js`：`swarm` 出新的一轮 → 右下弹卡「评委说「…」」，一行一个角色隔 0.65 s 亮出来，停 4.5 s；裁剪橙底抖一下、否决红底、生效绿字；参数字典翻成「强度 +0.5」。自动检索「命中经验」（不走蜂群时间线）也上这张卡（记忆员 · 生效）。看到地形导演「在造…」→ 全屏「AI 正在造山…」+ 评委原话 + 已等秒数；引擎切世界重载后（sessionStorage 接力，或 swarm 里 25 s 内的「已切到」）剖面逐段画出来 + 安全员那几行，~5 s 后淡出进新山。③ `hud_flow.js`：body 挂 `u-idle / u-ready / u-play / u-summit`。待机 = 45 s 没人动（没走、没按 R2、没换人、蜂群没新消息；`?idle=秒` 可改）→ 大标题 + 玩法四步轮播 + 右下二维码，镜头正面 / 侧面 / 跟拍每 7 s 轮换（写 `window.__camMode`，退出待机还原），峰哥每 25 s 说一句（调 H 线的 `__fenggeHud.say`，不出声）。准备 = safety 不是 ACTIVE → 大字「按住 R2 开始」（手柄连着时下面有 R2 按压条）。游戏中 = 只留峰哥、路况、力、进度（+ 安全灯 / AI 卡 / 影子标签），世界名面板和右下统计面板、右侧经验卡栏都拿掉了。登顶 = 成绩卡：用时大字 + 新纪录、和影子比（影子先到 → 慢几秒；没到 → 甩开几步；没影子 → 第一个爬上来的人）、「你的手感已存为经验卡 #n「…」」、二维码；**至少停 8 s**（引擎走 3 步就收登顶画面，原来接着走的人根本看不到卡），之后接着走 3 步 / 红灯 / 25 s 收。**急停压过一切**：DISARMED 时收成绩卡，大字红「急停中」。`hud_qr.js`：自己写的二维码编码（字节模式、纠错 M、版本 1–10、8 种掩码按罚分挑），Chrome BarcodeDetector 解 6 条（2–200 字节，版本 1 / 3 / 5 / 8 / 10，含中文）全对。`?ui=idle|ready|play|summit` 固定状态截图用；离线预览默认 play（登顶预览 = summit）。④ 右上安全灯（z 最高，任何状态都在）：灰「R2 松开」/ 绿「出力中」（低置信时小字「没认准步子，力归零」）/ 红闪「急停」。⑤ 1080p 下路段名、第 n / N 步、n 步后、红灯站定秒数、海拔、力矩值、登顶用时都 ≥ 48 px；面板统一深色半透明 + 主题主色 `theme.accent`。**操作台**（index.html）：急停挪到安全面板最上面，130 px 高、48 px 字、最红；重新上膛、按住助力、模拟走路、发出力矩、软限 / 死人开关都在（**安全功能一个没删，按钮行为没改**）；第一屏 = 安全 + 记忆（换人 / 评委说 / 经验卡删 / 恢复）+ 蜂群（造山框 + 时间线加高）+ 地形；顶栏加三个灯：大脑（在线 / 离线兜底 / 没 key）、峰哥语音（`fengge.source`：大模型现写 / 兜底语录 / 还没开口）、手柄（R2 %）；控制律参数和事件流在第二屏；髋角曲线 / 相位 / 腿部 3D / 步态签名 / 手柄键位折进「调试」，**点开才画**，腿部 3D 第一次点开才建（它自己 60 fps 渲染，以前一直在后台跑，和游戏抢 CPU）。**验收**（自己起的 `--sim --force-deadman --http 8877`，大脑 / TTS 指到空端口走规则兜底；没碰展位 ShellOS）：`docs/提交/截图/ui_idle.png`、`ui_ready.png`、`ui_play_force.png`（泰山台阶，黄色波形 + 大腿黄光）、`ui_ai_card.png`（「没感觉，重一点」→ 安全员裁剪橙底 → 生效）、`ui_forge_wait.png`、`ui_forge_reveal.png`、`ui_summit.png`、`ui_estop.png`、`ui_dashboard.png`（1440×900 第一屏）、`ui_dashboard_debug.png`。**FPS**：无头 Chrome（Metal）、泰山、模拟器 100 步/分在走，改前（889d8ae）/ 改后（7c50c71）两棵树各起一个模拟器，各采 10 s。第一次在 8877 / 8878 测（16:18 后 R 线的请求误打到过 8877，所以作废重测）；17:00 在确认空着的 8897 / 8898 重测 3 轮，测完核对 walk=true、cadence 100、force null：改前 31.4 / 32.4 / 32.9，改后 32.8 / 33.2 / 33.8 fps，没有下降；力波形 rAF 每帧 0.37 ms，造山过场循环平时 < 0.01 ms。截图里没有「（强制）」路段标记，没受 R 线影响。合 main（8215a79，含光影 / 珠峰 / 跑酷）后在珠峰北坡看过：无报错。帧率调试行默认藏，`/game?debug=1` 才显示。**第 3 轮（E 线反馈 + 闪屏自查）**：① 站定段按世界说人话：路段名里带「红灯」（东京）才叫红灯；珠峰「北坳营地·吸氧」「第二台阶·排队上梯」的中间大字直接写地名，路段标签 / 力面板标签 / 图例写「站定」，「n 步后：第二台阶·排队上梯」；造山剖面下那行同理（`hud_force.js` 的 `kindName`）。snow_summit 主题里改 `#wait .big` 的那段现在和 HUD 写的一样，可以删。② 登顶那 6 s 海拔 / 步数写山顶（珠峰 8848.86 m、第 56 / 56 步），不再显示起点 5200。③ 闪屏自查（15 s 站着 + 15 s 走，数 DOM 变化）：状态流只在登顶时切，没有来回跳；大腿光约 3 次 / s，就是每一步的出力脉冲，设计如此；**找到并修了**：安全灯和路段名以前每 100 ms 整块重写（肉眼不闪但每次重排），现在值变了才写；真机上扳机轻搭在门槛上时 ACTIVE / ARMED 会 10 Hz 来回跳，以前「按住 R2 开始」大字和面板会跟着闪——离开「游戏中」加了 1.2 s 迟滞（进游戏中、急停不等），安全灯颜色照实时，小字「没认准步子」至少停 1.5 s。`tests/test_hud_flow.py`（node 跑 `pickMode`：抖 6 s 只切 1 次，把迟滞改成 0 会挂）。外骨骼没连时灯写「外骨骼没连上」。整屏一直闪不像是 HUD 造成的（HUD 没有整屏元素会高频开关），得等 L 线查光影。**第 4 轮 · 游戏 UI 第一批（开始界面 + 设置 + 暂停）**：`hud_menu.js`（新）+ `settings.js`（新，普通脚本，game.html 里在所有模块前加载）。① **开始界面**：标签页第一次开 /game 出（切世界的重载不出；`?title=0/1`），待机时也回到它当吸引画面；「峰哥亡命天涯」大标题 + 峰哥大头像（琥珀框，旁边轮换说几句）+ 当前地图 + 菜单（开始爬山 / 选择地图 / 设置 / 玩法说明 / 制作团队）+ 四步玩法条 + 微信群码（S 线的 `wx_qr.jpg`，9/30 前有效，**原来那个 GitHub 链接扫了 404 的问题一起解决了**；`?qr=网址` 仍可换成现场编码）；背景是当前世界沿路慢慢航拍（借引擎 `__camHold`，离开前先交还，导游在「准备」里接手不打架）。按 Enter / 按住 R2（ACTIVE 那一下）/ 开始走 → 进游戏。备用版 `?fengge=0`：标题换成「原地迈步，腿上爬山」、不出头像和峰哥署名。② **设置**（存 localStorage；地址栏写了的以地址栏为准，那一行显示「地址栏固定」）：峰哥语音音量、捷风 / 音效音量（游戏里现在没有别的音效，只有捷风的声音）、字幕、镜头（即时生效）、画质 高 / 低 / 关、捷风出现、捷风说话（缺省不说）、峰哥导游、峰哥解说 多 / 少（少 = 只留登顶 / 红灯 / 造山 / 改手感）。做法：各线本来就读地址栏开关，settings.js 在模块加载前把和缺省不同的设置补进地址栏（记在 `_si=`，下次先删再补），画质 / 捷风 / 导游改了返回时自动重载；音量 = 包一层 `HTMLMediaElement.play` 按网址分两路；解说「少」= CSS 藏那几种事件的气泡 + 跳过它们的声音。**没改任何别人的文件**。③ **暂停**（Esc）：继续 / 重新开始（回山脚）/ 换地图 / 设置 / 退出到标题；只盖住画面，暂停期间一个请求都不发；「重新开始」= 替用户按一下 R，走 input.js 原来那条回山脚的路。菜单开着时按键在捕获阶段全吃掉（空格 / R / 1 2 3 / V 都不漏给 input.js，实测 sim 的 walk / cadence 不变）。**手柄不拿来点菜单**：ShellOS 把手柄每个键都占了（↑↓ 调参数、× 急停、○ 上膛、Options 复位），网页再用会连带改参数；手柄只有「按住 R2 = 开始」。④ 玩法说明（键盘 / 手柄对照）、制作团队（球球、anni、峰哥授权、素材来源；**待球球确认名单**）。⑤ 顺手按 ART 美术范式收了 U 线的 P0 / P1：`--acc` 全局霓虹紫（`applyCssVars()`，不再跟主题 accent）、路段色一律 `style.js` 的 `SEG`（下台阶黄、红灯 #ff4d4f、平地灰）、红灯面板边框 / 大字用 `--seg-wait`、AI 卡角色名白 + 结论标签用 UI 状态色、「新纪录」徽章紫、`.panel` 去掉 backdrop-filter、登顶卡在左下时最宽 44 vw。急停压过开始界面（红字「急停中」在上层）。`tests/test_hud_flow.py` 加了开始界面两条。**验收**：`docs/提交/截图/ui_menu_title.png`、`ui_menu_title_alt.png`（备用版）、`ui_menu_settings.png`、`ui_menu_pause.png`、`ui_menu_help.png`、`ui_menu_credits.png`、`ui_menu_estop_over_title.png`（我的模拟器在负载下被看门狗断了，正好拍到急停压过开始界面）；pytest 125 过 1 挂（test_fault 同前）。**第 4 轮 · 第二批**：⑥ **选择地图**（保留独立页 `/worlds`，因为切世界要 POST `/terrain`，游戏页不发控制请求；页面原有的造山框、「进入」按钮的请求一个没改）：和游戏页同一套样式（rem 字号层级、深色面板、霓虹紫、路段色从 `style.js` 来）；卡片加难度徽章（入门 / 适中 / 硬核，按台阶占比 + 步数 + 站定段）、步数 / 台阶% / 红灯或站定数 / 爬升、最佳成绩 + 影子是谁；键盘 ←→↑↓ 按屏幕位置选卡、Enter 进入、/ 跳到造山框、Esc 回游戏；进页默认选中当前世界。**最佳成绩的来源**：ShellOS 只在内存里存每座山的影子 / 最佳，`/state` 只给当前世界，所以游戏页每次登顶记一份到 localStorage（`fg_records`，同一台大屏），选山页再用 `/state` 补当前世界的——ShellOS 重启后这边的记录还在，两边可能对不上；要严格一致得在 `/worlds.json` 里带上每座山的 best（server.py / worlds 是总指挥的）。⑦ **结算画面**：登顶卡加步数、峰哥这次登顶的评语（`fengge` 事件 summit 的那一句，来了就填进卡里）、「Enter 再来一次」（= 收起卡片：ShellOS 登顶后本来就从山脚开下一圈，不发请求）和「M 换地图」。**验收**：`ui_menu_maps.png`、`ui_menu_results.png`（泰山登顶 17.5 s 新纪录 · 39 步 · 甩开影子 · 峰哥评语）。pytest 125 过 1 挂（同前）。**第 4 轮 · 珠峰主打**：选山页珠峰排第一张、占两格、带「主打」；开始界面当前地图是珠峰时标「主打」；结算卡标题带山顶海拔（珠峰「珠穆朗玛峰 8848.86 m」，按 docs/珠峰-架构.md §3）。**开始界面背景 = 当前加载的世界**（引擎只加载 ShellOS 当前的那座；游戏页不能自己切世界，那要 POST /terrain），所以「缺省航拍珠峰」要 ShellOS 缺省世界是珠峰：`shellos/worlds/__init__.py` 的 `DEFAULT = "tokyo_night"` → `"everest_north"`（1 行，不在 U 名下，已请总指挥改）；`engine.js:83` 共驾开场的兜底也写死了 tokyo_night。截图 `ui_menu_maps.png`（更新）、`ui_menu_title_everest.png`、`ui_menu_results_everest.png`。pytest 111 过 1 挂（`test_fault` 缺 gitignore 的 synthetic-walk.csv，同前）。**没做到 / 照实写**：① 二维码现在指向 `github.com/QiuQiuNB666/aima/blob/main/docs/提交/onepager.html`，**仓库公网 404（私有），手机扫了打不开**，要有公开网址（仓库转公开 / Pages / 别处托管）后用 `/game?qr=网址` 或改 `hud_flow.js` 的 `QR_URL`；② 「演示循环」只做了镜头轮换 + 标题轮播 + 峰哥气泡，化身原地待机动作，没有自动爬山回放（要改引擎）；③ 语音灯只能看 `fengge.source`（/state 里没有 TTS 状态，声音实际在游戏屏 voice.js 播）；④ 真机没试（只在模拟器上看过），R2 按压条要手柄连上才出现 |
 | **ART 美术范式**（分支 claude/nervous-payne-3bc54c） | `docs/美术范式.md`（新）、`static/game/style.js`（新）、`tests/test_style.py`（新）、`docs/提交/截图/art_*.jpg`（新）；**别人的文件一个没改**（指挥板只加了本行和 9 条留言） | 定统一美术范式（低多边形 + 电影感光影 + 霓虹描边），色板 / 路段色 / 光照上下限 / 材质 / 三人区分 / UI 字号面板 / 构图 / 动效 / 禁忌写成文档 + 可 import 的常量；逐主题逐页审查出清单，给各线留言 | ✅ **做完，未 push**。① `style.js`：`SEG`（路段色，全局唯一：上坡 `#3ddc84` / 台阶上下同 `#ffd54f` / 下坡 `#4fc3f7` / 红灯站定 `#ff4d4f` / 平地 `#8a95a3`）、`WHO`（峰哥琥珀 + 暖轮廓 / 影子冰青，雪地用深青 `#12b5a5` / 捷风钴蓝 + 风白）、`UI`（**HUD 强调色全局固定霓虹紫 `#b48cff`**，不再跟主题 accent——主题 accent 在 6 个世界里有 4 个撞路段色）、`TYPE` 7 级字号、`MOTION`、`LIGHT` 上下限、`MAT`、`PALETTE`（7 张图主 / 辅 / 强调）、`applyCssVars()`。不 import three，node / 跑酷都能用。② `tests/test_style.py`（node）：路段色两两色相差 ≥ 25°、HUD 强调色 / 影子 / 捷风不撞路段色、三人不撞色——第一版把 HUD 强调色定成峰哥琥珀，被它抓出和台阶黄只差 10°，才改成紫。4 过。③ 审查：本机 `--sim` 8811（先查空着，测完关了，**没碰展位 MacBook**），无头 Chrome 按真实时间等 `data-ready` 截 5 张现状 `art_*.jpg`（负载 60，一张 2–6 分钟，所以只补拍关键的），其余对照各线最新截图。**P0（评审前，各 1–5 行）15 处，归成 9 类**：HUD 路段色 3 份拷贝不一致（`hud.js:7` 下台阶橙、红灯品红）、`--acc` 跟主题（泰山进度条黄 = 台阶）、力面板平地用主题色（东京平地是青的）、珠峰没光影预设、富士夜里峰哥轮廓光是青、东京坂道箭头青、珠峰影子饱和蓝（和捷风同色相）、泰山 / 珠峰台阶没有黄条、捷风走左侧正好挡在镜头和峰哥之间（4 张截图里都挡了一半以上）。清单在 `docs/美术范式.md` 附录 A，具体到文件:行和数值。**没做到**：没在展位 M2 Pro 上看（按要求不碰）；梧桐 / 富士 / 训练场没补拍，用的是 M2 的 `map_v4_*`（那批还是峰哥 v1 头）；字号只定了层级，没逐个核对 25 种旧字号 |
 | **G 峰哥导游**（分支 claude/determined-elbakyan-f9b1db） | `shellos/agent/guide.py`（新）、`static/game/guide.js`（新）、`tests/test_guide.py`（新）；`engine.js` 只加 import + 1 行 init；`server.py` 只加只读 `GET /guide/*` | 每张地图开头峰哥当导游：固定话术（不走大模型）+ 预生成峰哥语音 + 景区镜头；「准备」状态播，按 R2 / 走动立刻打断 | ✅ **做完，未 push**。① **话术**（`guide.py` 的 `GUIDE`，一句一个气泡）：8 个世界共 50 句 894 字，含 E 线的 `huashan_plank`（合并后生效）；景区 6–7 句，最后一句「按住 R2…开始爬」；训练场 3 句只讲玩法，手感对着 `terrain.py` 的 MULT 写（上坡助推、下坡拖住、上台阶发沉、下台阶落阶一沉）。事实只写拿得准的：十八盘一千六百多级、慢十八 / 不紧不慢又十八 / 紧十八、南天门、玉皇顶；吉田线五合目两千三百多、山顶 3776、御来光、山小屋；1960 年第二台阶搭人梯首次从北坡登顶、1975 年中国梯、8848.86、空气约平地三分之一；爱宕神社 86 级「出世石段」+ 江户武士骑马冲上去的传说；梧桐山鹏城第一峰、好汉坡；千尺幢铁链、苍龙岭、长空栈道必须系安全带、南峰 2154 米。不碰两性、政治。② **语音**：在主工作区 brain 下用 `tts.py` 的峰哥复刻音色生成 46 条（4 张图共用「按住 R2，开始爬。」、2 个训练场共用最后一句），**46 条全部成功、0 失败**；MiniMax 按计费字符算（汉字按 2 个），共 1545 计费字符 ≈ **0.54 元**。缓存在 `data/voice/<sha>.wav`，和兜底语录同一个目录（不进 git，deploy.sh 顺带同步）。每张图语音 22.7–30.3 s（加上句间停顿约 25–32 s），训练场约 10 s。改了词就在主工作区跑 `python3 -m shellos.agent.guide --tts`（已缓存的句子不重新合成）。key 没打印、没复制。③ **播放**（`guide.js`）：body 有 `u-ready`（U 线的准备状态）且不是急停 → 加 `body.g-guide`，H 线头像 6 → 9.5rem，逐句 `__fenggeHud.say('guide', 句, 0)`，同时放 `/guide/<world>/<i>.wav`（整组预加载，一句放完触发 ended 再出下一句；没声音就按每秒 4.5 字估时长）。镜头设 `__camHold` 自己摆：0–9 s 正面对着峰哥慢慢推近（看点压在脸下面，脸在「按住 R2」大字上方）→ 9–17 s 从头顶摇臂翻到身后（只在路线上方移动，东京窄街不会擦到楼）→ 之后在身后高处看前方 7 m 的路和景点，慢慢升高。讲完或被打断就交还引擎的镜头。每次进图讲一遍（切世界 = 页面重载）；待机后回到准备（来了新的人）再讲一遍；现场造的 `gen_*` 没有词，就不讲。`?guide=0` 关，`?voice=0` 只出气泡。④ **实测**：`--sim` 8857，`SHELLOS_BRAIN` / `SHELLOS_TTS` 指向死端口，不打真接口；用无头 Chrome（机器负载 60–250）。东京 7 句按顺序播完（每句都等到 ended），讲完自动交还镜头；首句语音加载 0.8–2.2 s，后面几句预加载后 0–57 ms。**走路打断 240 ms**（`sim.walk` 一变就判，不等步态识别）；**按 R2 打断 308 ms**（`/hold` 心跳 130 ms 进 ACTIVE → u-play）。离线预览 `?preview=<world>&ui=ready`：泰山 / 富士 / 珠峰 / 梧桐 / 训练台阶都播了，errlog 空。`?guide=0`：`__guide` 未定义，镜头没被接管。pytest：`test_guide` 2 条都过（每个世界都有词、以 R2 结尾、每句 ≤ 40 字、总字数 ≤ 5000；路由只读缓存，没缓存 / 越界返回 404，不现场合成）；全套 120 过 1 挂（和之前一样，`test_fault` 缺 synthetic-walk.csv）。⑤ **截图** `docs/提交/截图/guide_tokyo_front.png`（正面 + 气泡）、`guide_tokyo_scene.png`（身后看鸟居和神社石阶）、`guide_taishan.png`（中天门）、`guide_fuji.png`、`guide_everest.png`（经幡）、`guide_wutong.png`（好汉坡路牌）、`guide_train_stairs.png`，共 4.7 MB。**没做到**：华山不在本分支的世界里，只验了话术和 wav，画面没看；内置浏览器面板隐藏时不出帧，全程用无头 Chrome 加 `--mute-audio`，**声音没有人耳听过**（「R2」念成什么，要到现场听一下）；没在展位 / 真机上看过。 |
 | **总指挥** | `docs/指挥板.md`、`docs/队友跟进.md`、`shellos/main.py`、`shellos/ui/server.py`（除 `/voice/*`）、`static/index.html`、`static/worlds.html`、git | 合并各线、统一提交推送、更新交接文档、部署 | — |
